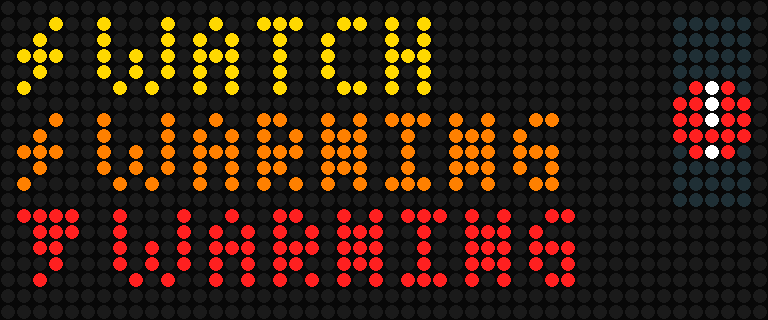
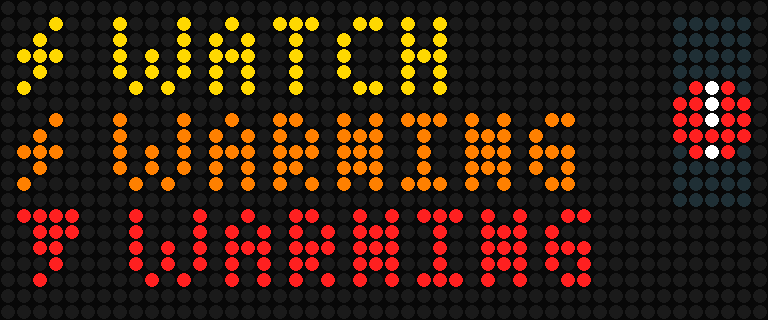
Fix board previews: grouped times, weather row, 3px tag gap
- Arrival times are right-aligned as a group, not columns.
- Weather row shows icon (provisional storm icon) and temperature.
- Warning tag gap is 3px; spec updated to match.

Claude-Session: https://claude.ai/code/session_017h8vXpyzyLrFQWoUUMD3Uq

Changed region(s): [[0.125, 0.6562, 0.7812, 0.9062], [0.125, 0.3438, 0.75, 0.5938], [0.125, 0.0312, 0.5938, 0.3125]]

diff --git a/scripts/preview-fonts.js b/scripts/preview-fonts.js
@@ -48,26 +48,82 @@ save('sheet-clock.png', sheet('clock', 17, 13, '12:34', '0123456789'), 8);
 // Right-align text so its last pixel is at column `right`.
 const rtext = (f, font, str, right, base, color) => f.text(font, str, right - measure(font, str) + 1, base, color);
 
+// Arrival times: right-aligned as a group (not columns), first amber, the rest
+// dim. TIME_GAP is the space between times.
+const TIME_GAP = 3;
+function drawTimes(f, times, right, base) {
+  let x = right;
+  for (let k = times.length - 1; k >= 0; k--) {
+    const w = measure('small', times[k]);
+    f.text('small', times[k], x - w + 1, base, k === 0 ? C.amber : C.dimAmber);
+    x -= w + TIME_GAP;
+  }
+}
+
+// Warning tag: icon, 3px gap, word.
+const TAG_GAP = 3;
+function drawTag(f, icon, word, x, base, color) {
+  const after = f.text('small', s(icon), x, base, color); // advance already includes 1px
+  return f.text('small', word, after + TAG_GAP - 1, base, color);
+}
+const tagWidth = (icon, word) => measure('small', s(icon)) + TAG_GAP + measure('small', word);
+
+// Provisional 8x8 storm icon (cloud + bolt) until the weather icons are drawn.
+const STORM = {
+  cloud: ['..####..', '.######.', '########', '.######.'],
+  bolt: ['...##...', '..##....', '...##...', '..#.....'],
+};
+function drawIcon(f, x, y) {
+  STORM.cloud.forEach((r, j) => [...r].forEach((c, i) => { if (c === '#') f.fill(x + i, y + j, 1, 1, C.grey); }));
+  STORM.bolt.forEach((r, j) => [...r].forEach((c, i) => { if (c === '#') f.fill(x + i, y + 4 + j, 1, 1, C.yellow); }));
+}
+
+// Weather row: divider on row 22, icon rows 24-31, temp after the icon,
+// condition word (or warning tag) right-aligned.
+function drawWeatherRow(f, temp, tag) {
+  f.fill(0, 22, 64, 1, C.divider);
+  drawIcon(f, 0, 24);
+  const base = 31; // text on rows 26-30
+  f.text('small', temp, 10, base, C.label);
+  const [icon, word, color] = tag;
+  drawTag(f, icon, word, 63 - tagWidth(icon, word) + 1, base, color);
+}
+
+function transitRows(f, rows, tops) {
+  rows.forEach(([ln, label, times], i) => {
+    const top = tops[i];
+    const base = top + 5;
+    f.fill(0, top, 3, 5, LINE[ln]);
+    f.text('small', label, 5, base, C.label);
+    drawTimes(f, times, 63, base);
+  });
+}
+
 // Transit: header on, weather off -> 4 rows, pitch 6, rows start at 7.
 {
   const f = new Frame();
   f.text('small', 'MORSE', 1, 6, C.grey);
   rtext(f, 'small', '9:41', 62, 6, C.clock);
-  const rows = [
+  transitRows(f, [
     ['RD', 'HOWARD', ['DUE', '8', '15']],
     ['RD', '95TH', ['3', '11', '19']],
-    ['BL', 'JEFF PK', ['6', '14', '']],
-    ['GR', 'COTTAGE', ['12', '27', '']],
-  ];
-  rows.forEach(([ln, label, times], i) => {
-    const top = 8 + i * 6;
-    const base = top + 5;
-    f.fill(0, top, 3, 5, LINE[ln]);
-    f.text('small', label, 5, base, C.label);
-    const right = [43, 53, 63];
-    times.forEach((t, k) => { if (t) rtext(f, 'small', t, right[k], base, k === 0 ? C.amber : C.dimAmber); });
-  });
+    ['BL', 'JEFF PK', ['6', '14']],
+    ['GR', 'COTTAGE', ['12', '27']],
+  ], [7, 13, 19, 25]);
   save('mock-transit.png', f, 10);
+}
+
+// Transit: header off, weather on -> 3 rows in rows 0-20 (pitch 8 assumed;
+// the spec doesn't give this case's pitch).
+{
+  const f = new Frame();
+  transitRows(f, [
+    ['RD', 'HOWARD', ['DUE', '8', '15']],
+    ['RD', '95TH', ['3', '11', '19']],
+    ['GR', 'COTTAGE', ['12', '27']],
+  ], [0, 8, 16]);
+  drawWeatherRow(f, '54', [G.BOLT, 'WATCH', C.yellow]);
+  save('mock-transit-weather.png', f, 10);
 }
 
 // Ticker: two 12px rows with a 1px gap, 5px index column, 55% row fill.
@@ -98,7 +154,7 @@ const rtext = (f, font, str, right, base, color) => f.text(font, str, right - me
   save('mock-ticker.png', f, 10);
 }
 
-// Overnight clock with the weather-row warning tags underneath.
+// Overnight clock with the weather row.
 {
   const f = new Frame();
   const clock = '12:34';
@@ -106,9 +162,7 @@ const rtext = (f, font, str, right, base, color) => f.text(font, str, right - me
   f.text('clock', clock, Math.floor((64 - w) / 2), 13, C.clock);
   const nt = 'NO TRAINS';
   f.text('small', nt, Math.floor((64 - measure('small', nt)) / 2), 20, dim(C.label, 0.5));
-  f.fill(0, 22, 64, 1, C.divider);
-  const x = f.text('small', s(G.BOLT), 1, 30, C.yellow) + 1; // advance includes 1px; +1 = 2px gap
-  f.text('small', 'WATCH', x, 30, C.yellow);
+  drawWeatherRow(f, '54', [G.FUNNEL, 'WARNING', C.red]);
   save('mock-overnight.png', f, 10);
 }
 
@@ -116,10 +170,7 @@ const rtext = (f, font, str, right, base, color) => f.text(font, str, right - me
 {
   const f = new Frame(48, 20);
   const tags = [[G.BOLT, 'WATCH', C.yellow], [G.BOLT, 'WARNING', C.orange], [G.FUNNEL, 'WARNING', C.red]];
-  tags.forEach(([icon, word, color], i) => {
-    const x = f.text('small', s(icon), 1, 6 + i * 6, color) + 1;
-    f.text('small', word, x, 6 + i * 6, color);
-  });
+  tags.forEach(([icon, word, color], i) => drawTag(f, icon, word, 1, 6 + i * 6, color));
   f.fill(42, 1, 5, 12, C.index);
   f.text('small', s(G.ALERT_DISC), 42, 10, C.red);
   f.text('small', s(G.ALERT_MARK), 42, 10, C.white);

diff --git a/docs/board/design-spec.md b/docs/board/design-spec.md
@@ -121,7 +121,7 @@ One custom **board font** (BDF), built from bitmap fonts in `hzeller/rpi-rgb-led
 ## 5. Screen 1: Transit station
 
 ### Rows
-- 3px line-color block, Tom Thumb label (uppercase), **3 times**, flush right (amber first, dim the rest).
+- 3px line-color block, Tom Thumb label (uppercase), **3 times**, right-aligned as a group, not in columns (amber first, dim the rest).
 - **Per-digit roll** when a number changes (12→11 rolls only the 2). Whole cells roll when the list shifts (the first train leaves) or to and from `DUE`.
 
 ### Layout
@@ -146,7 +146,7 @@ One custom **board font** (BDF), built from bitmap fonts in `hzeller/rpi-rgb-led
 ### Weather row (optional)
 - 8x8 condition icon, temperature, condition word (uppercase) on the right.
 - Icons: sun, moon, partly cloudy (day/night), cloudy, **umbrella** (rain/drizzle/showers), **icy umbrella** (freezing rain), **snowflake**, storm cloud with bolt, fog.
-- **Watch/warning tag** replaces the condition word: `[bolt]` or `[funnel]` + `WATCH` (yellow) / `WARNING` (orange for severe, red for tornado), with a **2px gap** between icon and word (1px read as `SWATCH`). Static, no scrolling.
+- **Watch/warning tag** replaces the condition word: `[bolt]` or `[funnel]` + `WATCH` (yellow) / `WARNING` (orange for severe, red for tornado), with a **3px gap** between icon and word (1px read as `SWATCH`; 2px still looked tight). Static, no scrolling.
 
 ### CTA alerts
 - Affected rows' color blocks **blink to a 1px "!"**. That's the whole indicator; no alert text is shown (details are on the phone).
